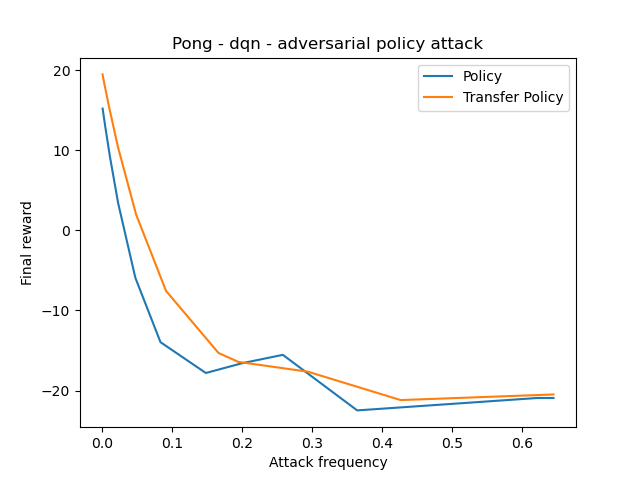
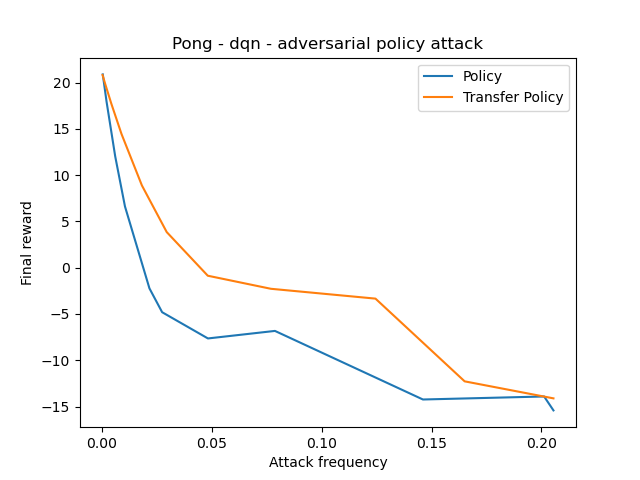
added new adversarial policy chart

diff --git a/make_chart_rew.py b/make_chart_rew.py
@@ -40,12 +40,13 @@ if __name__ == '__main__':
     rl_attack = "adversarial_policy_attack"  # strategically_timed_attack, uniform_attack, critical_strategy_attack, critical_point_attack, adversarial_policy_attack
     has_atk_freq = 1
     has_n_attacks = 0
-    smoothing = 4
+    smoothing = 5
     input_file = [
         "log/" + task + "NoFrameskip-v4/" + model + "/" + rl_attack + "_" + img_attack + ".npy",
         "log/" + task + "NoFrameskip-v4/" + model + "/" + rl_attack + "_" + img_attack + "_transf_" + transfer_model + ".npy",
         #"log/" + task + "NoFrameskip-v4/" + model + "/" + rl_attack + "_" + "perfect_attack" + ".npy",
-                  ]
+    ]
+
     n_lines = len(input_file)
     atk_freq = []
     n_attacks = []
